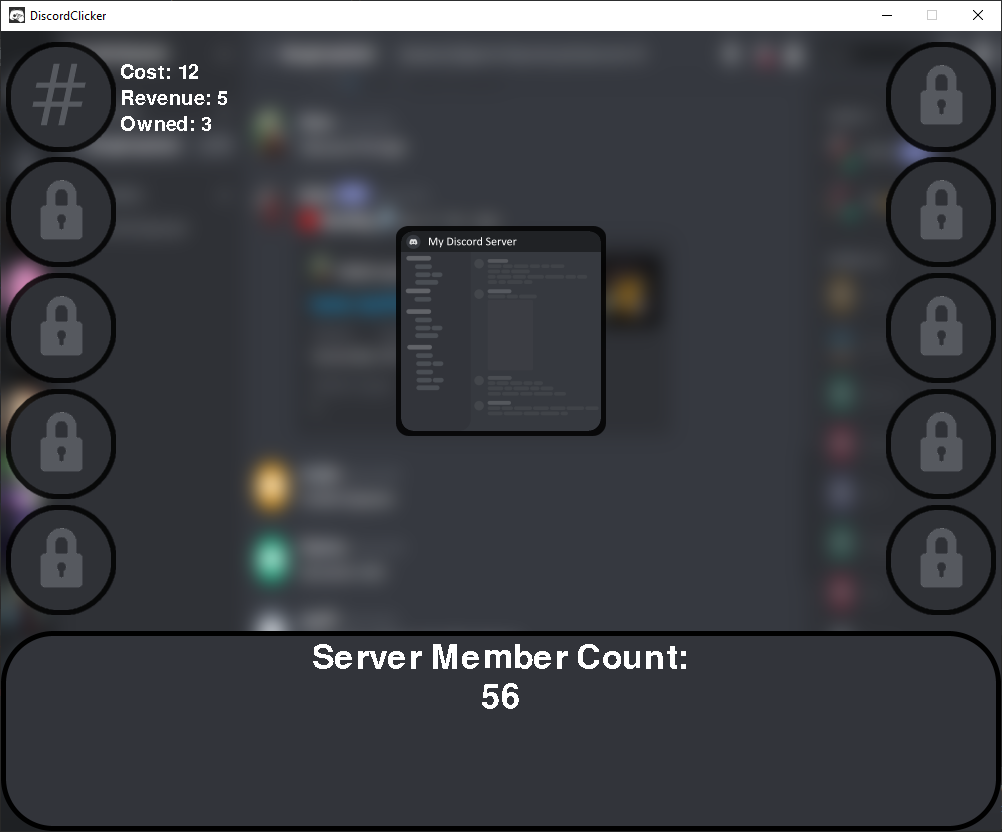
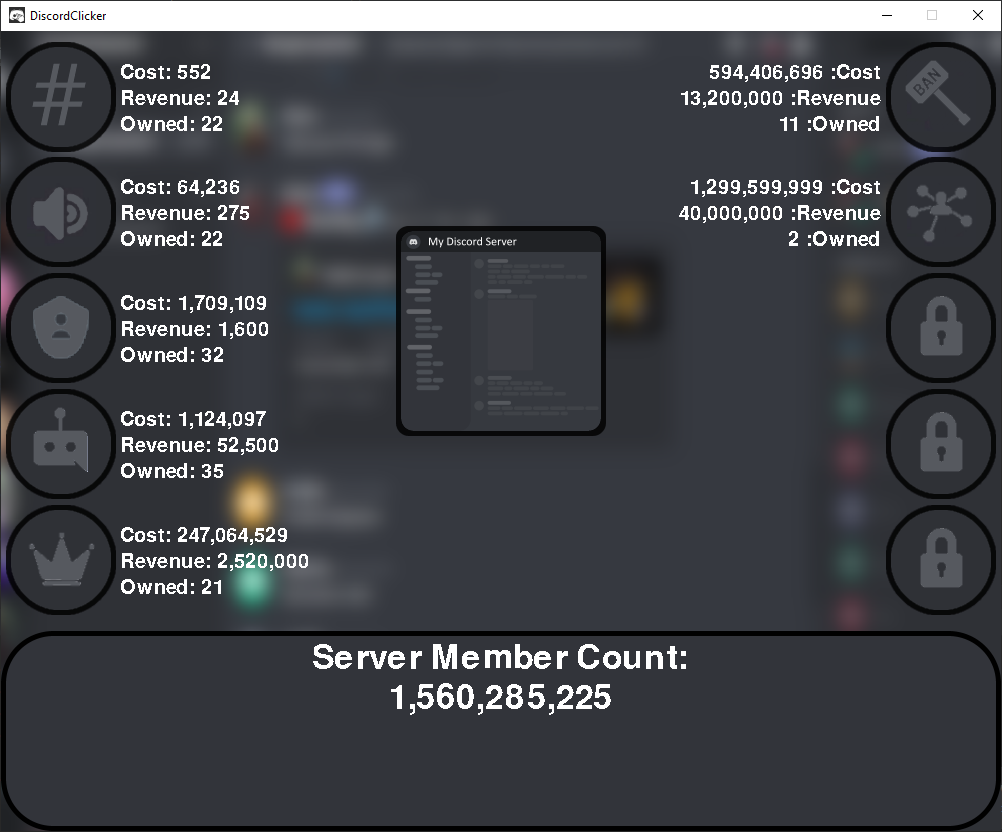
balanced 7 out of 10 of the generaters

diff --git a/main.py b/main.py
@@ -44,7 +44,7 @@ TIER_LOCKED = pygame.image.load(os.path.join('assets', 'tier_locked.png')).conve
 
 BUTTON_CLICK_SOUND = pygame.mixer.Sound(os.path.join('assets', 'click_sound.wav'))
 pygame.mixer.music.load(os.path.join('assets', 'background_track.mp3'))
-pygame.mixer.music.play(1, 0.0)
+pygame.mixer.music.play(-1, 0.0)
 BACKGROUND_IMAGE = pygame.image.load(os.path.join('assets', 'background.png')).convert_alpha()
 BACKGROUND_IMAGE = pygame.transform.smoothscale(BACKGROUND_IMAGE, (1050, 850))
 INFO_BAR_IMAGE = pygame.image.load(os.path.join('assets', 'info_bar.png')).convert_alpha()
@@ -86,7 +86,7 @@ def window_draw(buttonlist, textlist, mouse_pos):
 def main():
     clock = pygame.time.Clock()
     run = True
-    members = 0
+    members = 2500000000
     per_second_counter = 0
     button_list = []
     generator_list = []
@@ -106,11 +106,11 @@ def main():
 
     tier_one_gen = g.Generator(10, 1.10, 1.20, 1)
     tier_two_gen = g.Generator(200, 5, 1.30, 2.5)
-    #tier_three_gen = g.Generator(25000, 14.95, 1.14, 100)
-    #tier_three_gen = g.Generator(00, 14.95, 1.14, 100)
-    #tier_three_gen = g.Generator(25000, 14.95, 1.14, 100)
-    #tier_three_gen = g.Generator(25000, 14.95, 1.14, 100)
-    #tier_three_gen = g.Generator(25000, 14.95, 1.14, 100)
+    tier_three_gen = g.Generator(5000, 10, 1.20, 5)
+    tier_four_gen = g.Generator(40000, 150, 1.10, 10)
+    tier_five_gen = g.Generator(1000000, 300, 1.30, 400)
+    tier_six_gen = g.Generator(80000000, 1500, 1.20, 800)
+    tier_seven_gen = g.Generator(1000000000, 20000, 1.14, 1000)
     #tier_three_gen = g.Generator(25000, 14.95, 1.14, 100)
     #tier_three_gen = g.Generator(25000, 14.95, 1.14, 100)
     #tier_three_gen = g.Generator(25000, 14.95, 1.14, 100)
@@ -129,7 +129,11 @@ def main():
 
     generator_list.append(tier_one_gen)
     generator_list.append(tier_two_gen)
-    #generator_list.append(tier_three_gen)
+    generator_list.append(tier_three_gen)
+    generator_list.append(tier_four_gen)
+    generator_list.append(tier_five_gen)
+    generator_list.append(tier_six_gen)
+    generator_list.append(tier_seven_gen)
 
     while run:
         clock.tick(FPS)
@@ -173,20 +177,44 @@ def main():
 
                 if button_list[4].is_over(pos):
                     BUTTON_CLICK_SOUND.play()
-                    if not tier_four_button.locked:
-                        print("Add a bot")
+                    if not button_list[4].locked:
+                        if generator_list[3].cost <= members:
+                            members = int(float(members) - generator_list[3].cost)
+                            generator_list[3].upgrade()
+                            print("Add a bot")
+                        else:
+                            print(f"this costs {generator_list[3].cost}")
+
                 if button_list[5].is_over(pos):
                     BUTTON_CLICK_SOUND.play()
-                    if not tier_five_button.locked:
-                        print("Heir an admin")
+                    if not button_list[5].locked:
+                        if generator_list[4].cost <= members:
+                            members = int(float(members) - generator_list[4].cost)
+                            generator_list[4].upgrade()
+                            print("Heir a mod")
+                        else:
+                            print(f"this costs {generator_list[4].cost}")
+
                 if button_list[6].is_over(pos):
                     BUTTON_CLICK_SOUND.play()
-                    if not tier_six_button.locked:
-                        print("Ban a trouble maker")
+                    if not button_list[6].locked:
+                        if generator_list[5].cost <= members:
+                            members = int(float(members) - generator_list[5].cost)
+                            generator_list[5].upgrade()
+                            print("Ban a trouble maker")
+                        else:
+                            print(f"this costs {generator_list[5].cost}")
+
                 if button_list[7].is_over(pos):
                     BUTTON_CLICK_SOUND.play()
-                    if not tier_seven_button.locked:
-                        print("Get mentioned by an Influencer")
+                    if not button_list[7].locked:
+                        if generator_list[6].cost <= members:
+                            members = int(float(members) - generator_list[6].cost)
+                            generator_list[6].upgrade()
+                            print("Get mentioned by an influencer")
+                        else:
+                            print(f"this costs {generator_list[6].cost}")
+
                 if button_list[8].is_over(pos):
                     BUTTON_CLICK_SOUND.play()
                     if not tier_eight_button.locked:
@@ -205,6 +233,14 @@ def main():
             button_list[2].unlock()
         if generator_list[1].owned >= 10 and button_list[3].locked:
             button_list[3].unlock()
+        if generator_list[2].owned >= 10 and button_list[4].locked:
+            button_list[4].unlock()
+        if generator_list[3].owned >= 10 and button_list[5].locked:
+            button_list[5].unlock()
+        if generator_list[4].owned >= 10 and button_list[6].locked:
+            button_list[6].unlock()
+        if generator_list[5].owned >= 10 and button_list[7].locked:
+            button_list[7].unlock()
 
         textlist = []
         if per_second_counter == 60:
@@ -216,13 +252,23 @@ def main():
                     members = int(float(members) + gen.production)
             button_num = generator_list.index(gen) + 1
             button = button_list[button_num]
-            if not button.locked:
+            if not button.locked and button_num < 6:
                 gen_cost_label_surface = SMALL_FONT.render("Cost: {:,}".format(int(gen.cost)), False, WHITE)
                 gen_product_label_surface = SMALL_FONT.render("Revenue: {:,}".format(int(gen.production)), False, WHITE)
                 gen_owned_label_surface = SMALL_FONT.render("Owned: {:,}".format(gen.owned), False, WHITE)
                 cost_label = (gen_cost_label_surface, (120, button.y+16), False)
                 product_label = (gen_product_label_surface, (120, button.y+42), False)
                 owned_label = (gen_owned_label_surface, (120, button.y+68), False)
+                textlist.append(cost_label)
+                textlist.append(product_label)
+                textlist.append(owned_label)
+            if not button.locked and button_num > 5:
+                gen_cost_label_surface = SMALL_FONT.render("{:,} :Cost".format(int(gen.cost)), False, WHITE)
+                gen_product_label_surface = SMALL_FONT.render("{:,} :Revenue".format(int(gen.production)), False, WHITE)
+                gen_owned_label_surface = SMALL_FONT.render("{:,} :Owned".format(gen.owned), False, WHITE)
+                cost_label = (gen_cost_label_surface, (880-gen_cost_label_surface.get_rect().size[0], button.y + 16), False)
+                product_label = (gen_product_label_surface, (880-gen_product_label_surface.get_rect().size[0], button.y + 42), False)
+                owned_label = (gen_owned_label_surface, (880-gen_owned_label_surface.get_rect().size[0], button.y + 68), False)
                 textlist.append(cost_label)
                 textlist.append(product_label)
                 textlist.append(owned_label)
